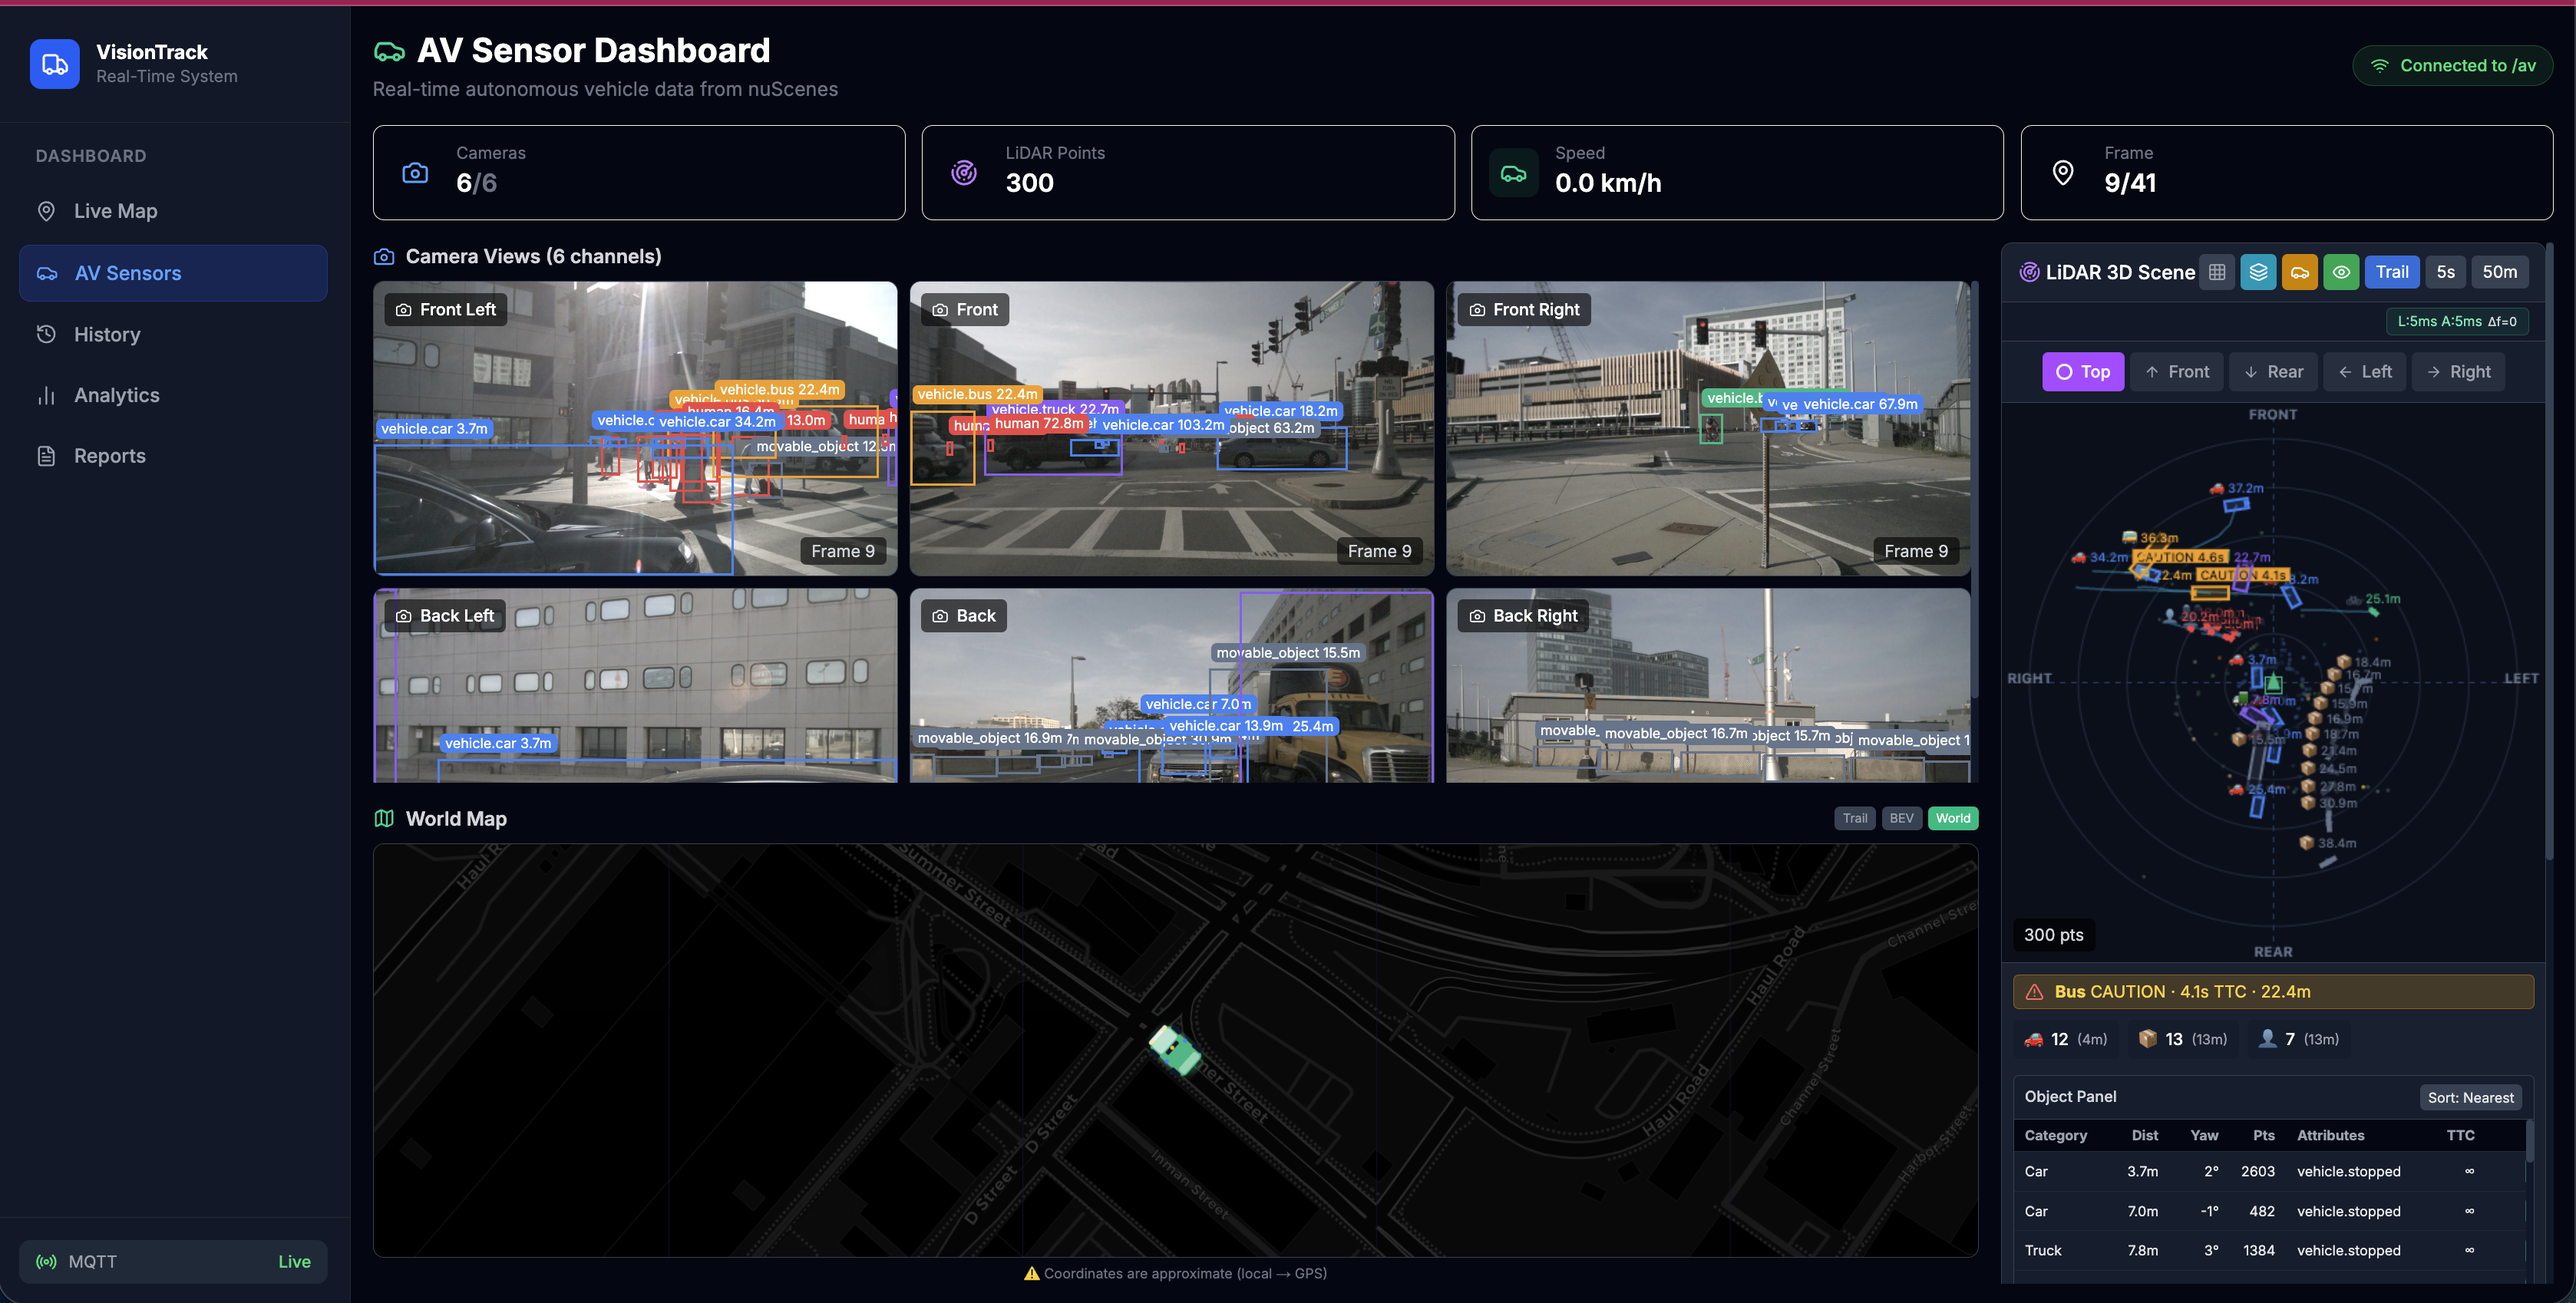
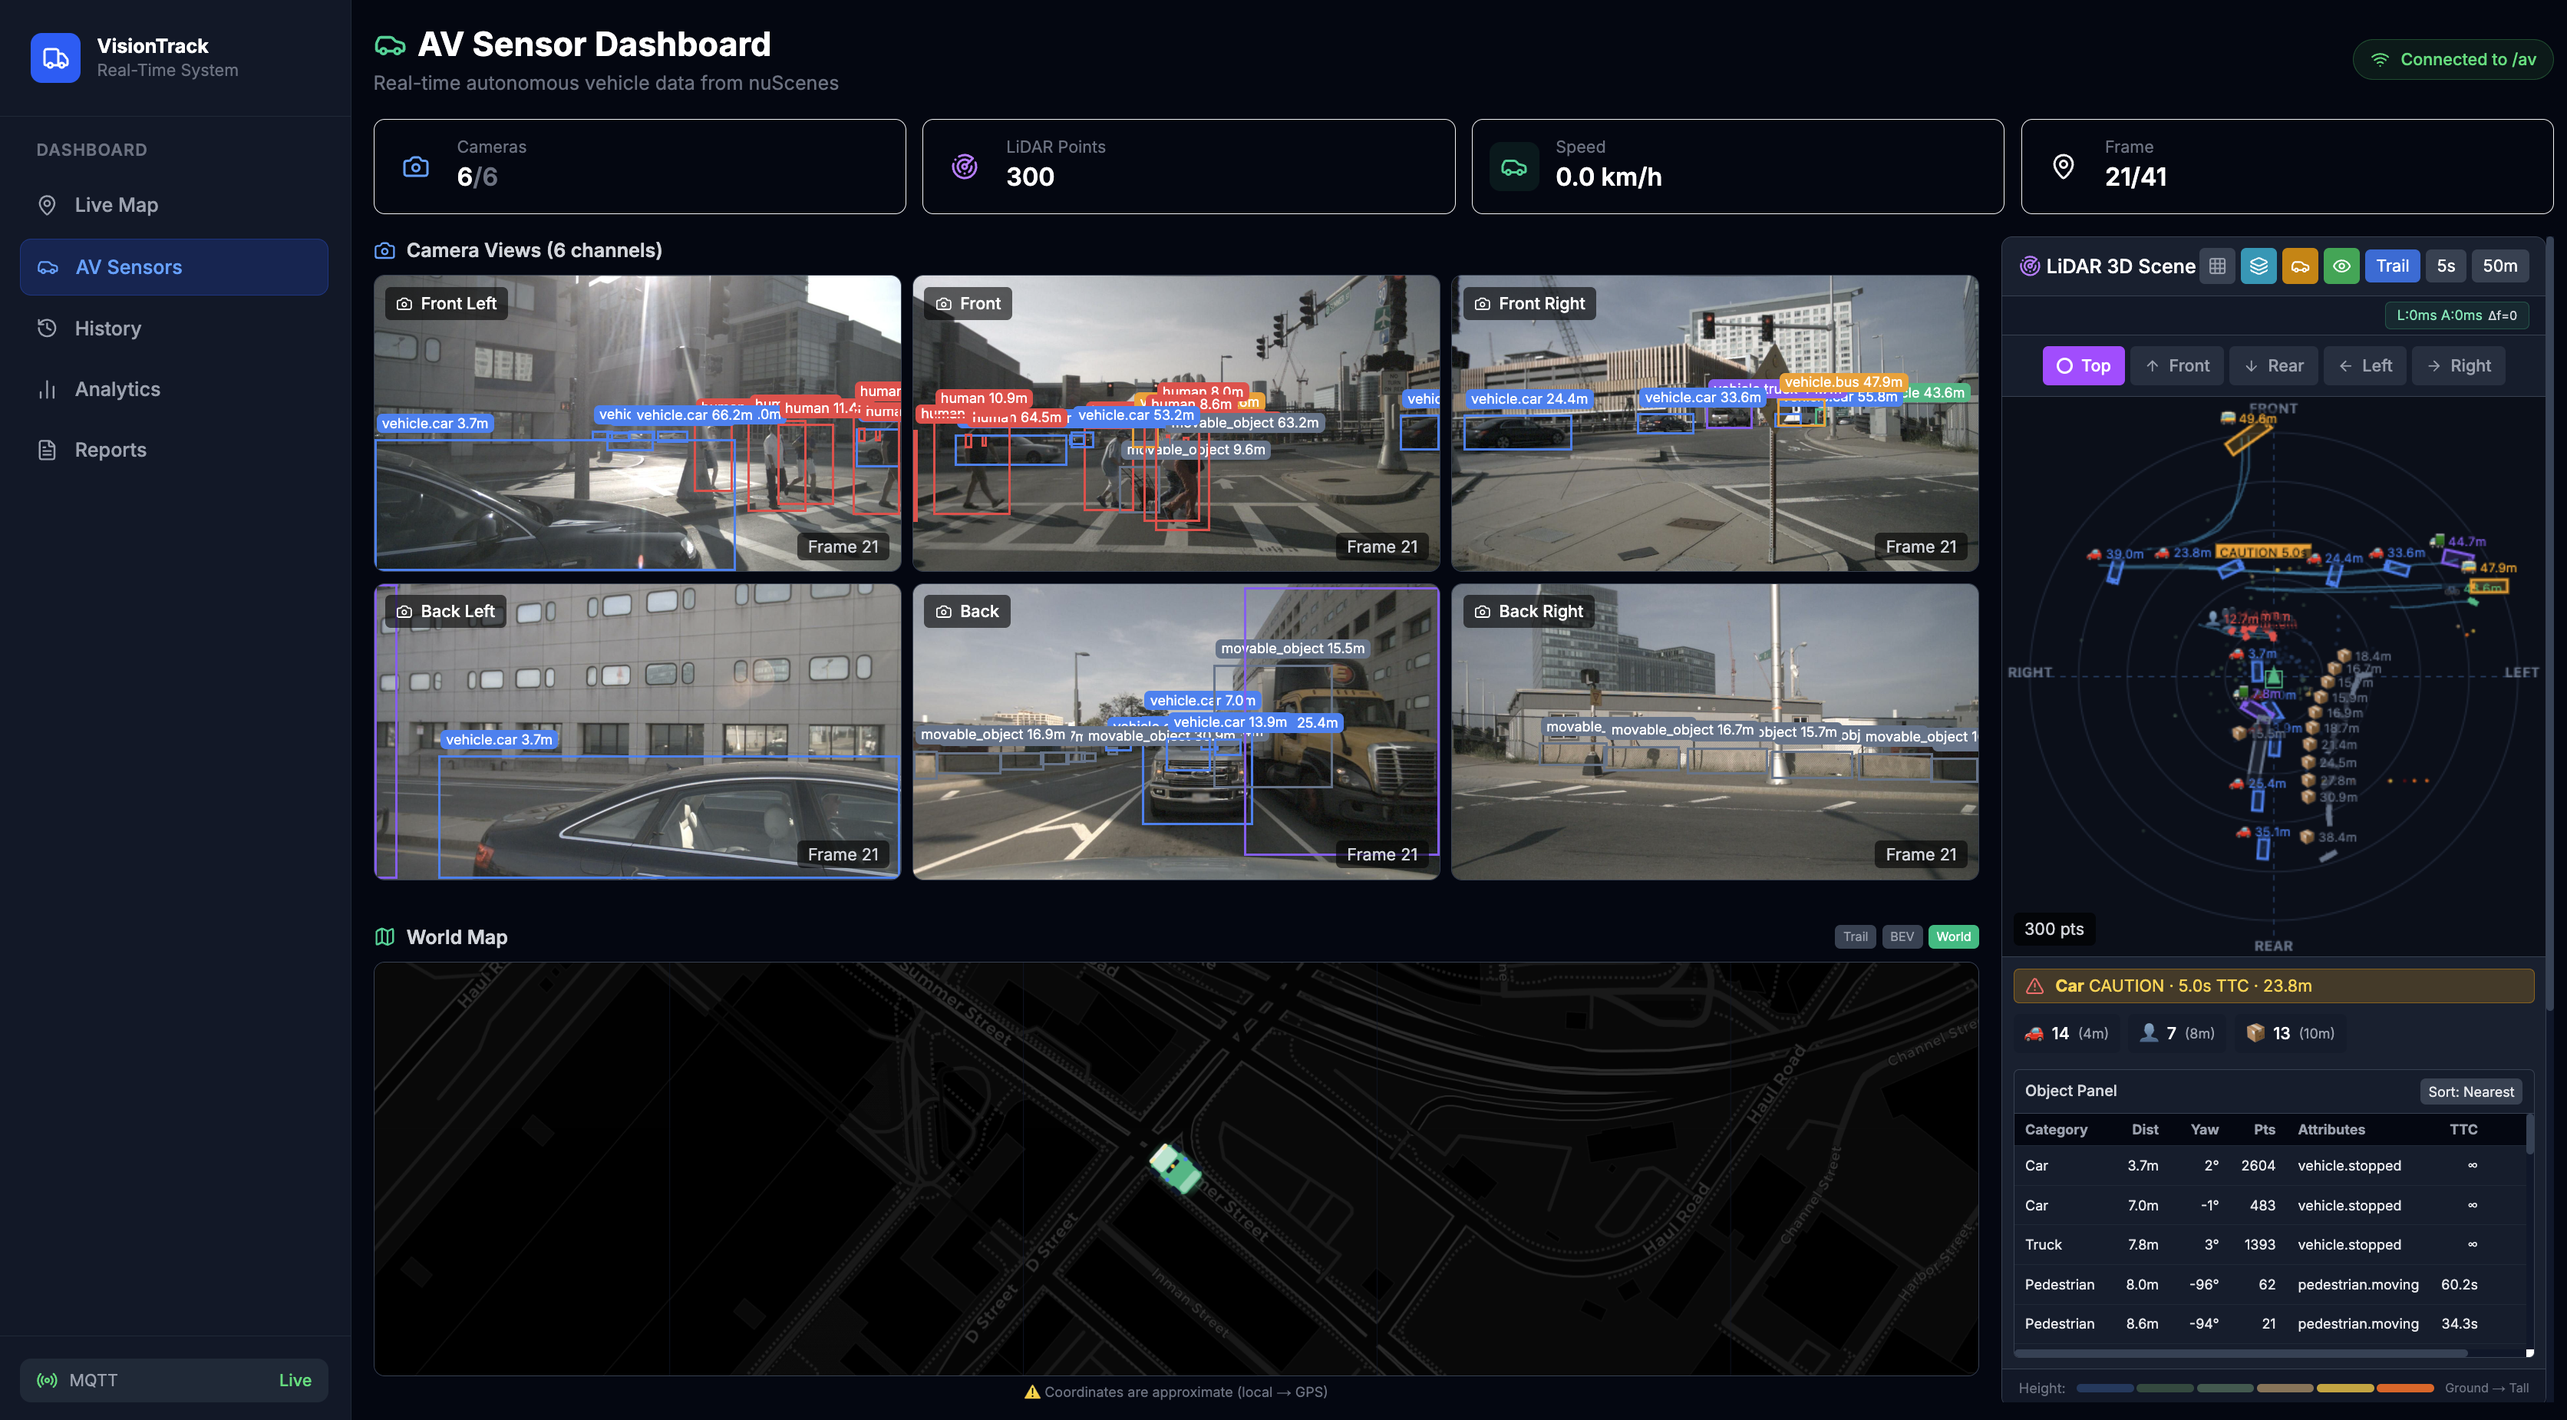
docs: upate dashboard image

diff --git a/README.md b/README.md
@@ -40,7 +40,7 @@ covering sensor ingestion (LiDAR, camera, GPS), stream processing, and live visu
 It is designed to mirror how modern AV systems handle high-frequency data using **MQTT**, **WebSocket**, and **event-driven architecture**.
 
 <p align="center">
-  <img src="docs/av-dashboard-ss2.png" alt="AV Sensor Dashboard — six camera feeds, map, LiDAR BEV, object table, and TTC risk banner" width="920" />
+  <img src="docs/av-dashboard-ss.png" alt="AV Sensor Dashboard — six camera feeds, map, LiDAR BEV, object table, and TTC risk banner" width="920" />
 </p>
 
 <p align="center"><em>AV Sensor Dashboard at <code>/av</code> — nuScenes replay with multi-camera overlays, LiDAR top view, map, and TTC-based risk.</em></p>
